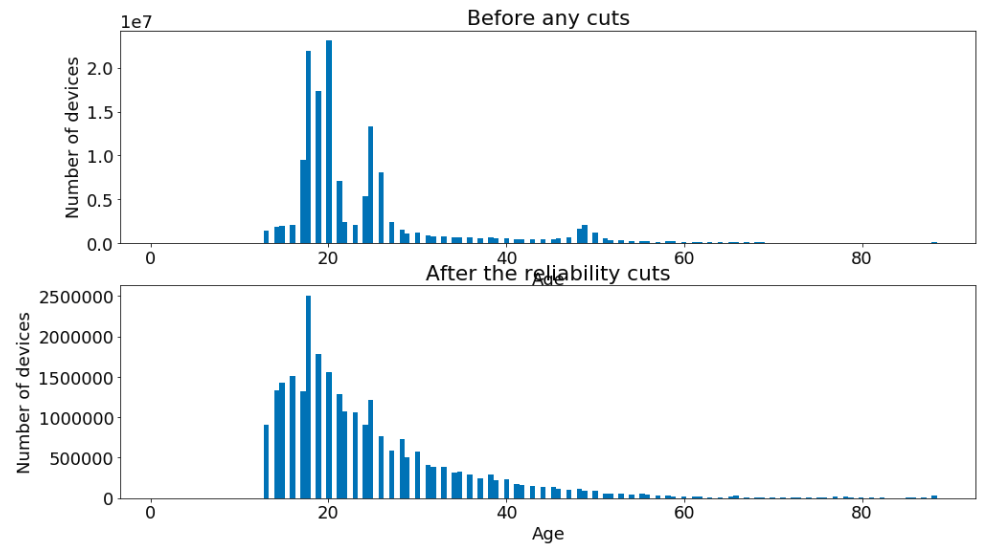
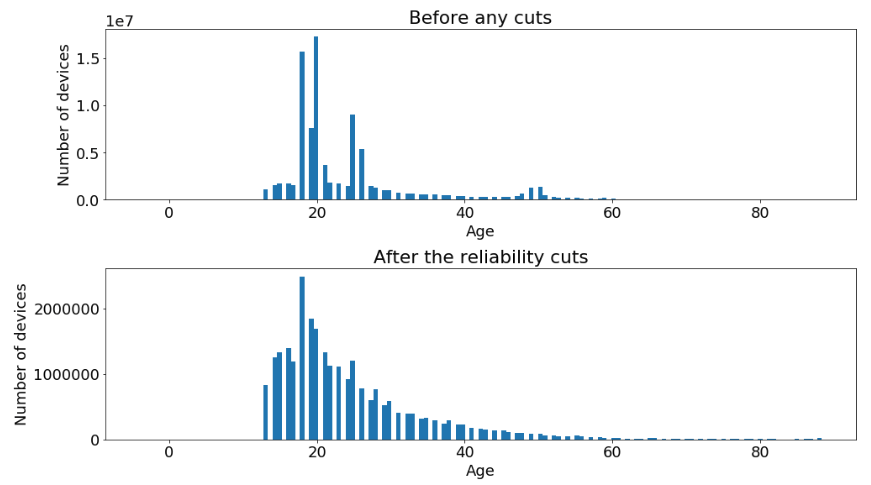
first round comments AgeTargetint1

Changed region(s): [[0.062, 0.0, 0.992, 0.9897], [0.0, 0.5567, 0.124, 0.866], [0.031, 0.5258, 0.124, 0.5567]]

diff --git a/_posts/2020-01-30-Age-Targeting-Part1.md b/_posts/2020-01-30-Age-Targeting-Part1.md
@@ -11,8 +11,12 @@ header-img: "images/Age-Targeting/true_age.jpg"
 
 In mobile advertising it is possible to target specific audiences based on some characteristics of the users.
 Here we are focusing on the age.
-However, these informations are only provided on by a subset of apps during the bidding process.
-To increase the available targeting audience we would need an estimation of the age for the devices which never use those apps and here is when the machine learning comes into place.
+Some apps provide the year of birth of their users.
+We actually do not know, where those apps derive the age from.
+But often, they require a registration step where you would provide your year of birth.
+However, these informations are only given on by a subset of apps during the bidding process.
+To increase the available targeting audience we use the information we get on the small subset of devices to infer the age of other, unknown users.
+To achieve this, machine learning comes into place.
 
 To train a supervised machine learning for infearing the age over all the devices we need: 
 - a **reliable ground truth** datasets (in our case the age for certain devices);
@@ -32,53 +36,105 @@ We want to discover all of those patterns and exclude them from our dataset.
 
 We can structure the age information unreliability in two ways:
 1. consistency of a deviced as observed multiple times on the same app;
-2. consistency of a device as observed in differnt apps.
+2. consistency of a device as observed in different apps.
 
-**1) inter app reliability**:<br/>
-In the plot below you can find some **examples of the age distribution** for four apps.
+**1) Inter app reliability**:<br/>
+In the plot below you can find some **examples of the age distribution** for six apps.
 ![example_age_distribution](../images/Age-Targeting/example_age_distribution.png)
-Different apps clearly show different age distributions..
+Different apps clearly show different age distributions.
 However, it is clear that some of the distributions in the plot do not make sense.
 Why would people from 17-18 correspond to more than 95% of the total users of the app? (What happens to the 16ties? or 19ties?)
 Why would apps have the same numbers of devices for every age in a specific range?
 These must be very special apps, or the data do not correspond to truth.
 What we want to do is to exclude these apps.
-Since we want to make a clear statement about the age distribution of the devices which visit a certain app, we exclude those where the amount of users is not enough to draw any statistical conclusion.
+A rejection/accept statement is drown only when we have enough users observed in the app.
+In case the number of users is too low we do not consider them in the study and in the final ground truth selection.  
 This is not a big issue since the devices contained in these apps are few by definition, so we do not cut off too many data in this way.
 
-Let's describe the main pattern we discover in the data and how we get rid of them.
+Let's describe the main pattern we discover in the data and how we get rid of them creating ad hoc variable via pyspark functions (spark allows to scale and run over the entire dataset).
+
 
 * **Few ages**<br/>
-Certain apps seem to provide almost always only two/three values.
+Certain apps provide almost always only two/three values.
 We create a variable (frac12) which is the fraction of devices contained in the two top most frequent ages observed in the app.
 Apps where the frac12 value is higher than 30% are excluded.
 Below you can see the distribution of the frac12 variable and the consequences of the rejection of the non reliable apps on the total age distribution.
 ![frac12_cut](../images/Age-Targeting/frac12_cut.png)
 The red vertical line indicates the threshold we apply over the frac12 feature.
+Here the code we use to calculate the frac12 over all apps:
 
+```python
+from pyspark.sql import Window
+from pyspark.sql import functions as F
+
+def get_site_with_frac_top_two_bin_information(df_app_dev_age):
+    """Return the apps with the frac12 column which indicate the ammount of deviceid 
+    observed in the two top age."""
+    df_app_age = df_app_dev_age.groupby(["apps", "age"]).agg(
+        F.count("deviceid").alias("num_dev_per_age"))
+    
+    window_num_dev = Window.partitionBy(df_app_age['apps'])
+    df_app_age = df_app_age.withColumn(
+        "num_dev", F.sum("num_dev_per_age").over(window_num_dev))
+    df_app_age = df_app_age.withColumn(
+        "frac_num_age", df_app_age.num_dev_per_age / df_app_age.num_dev)
+    
+    window_frac = Window.partitionBy(df_app_age['apps']).orderBy(
+        df_app_age['frac_num_age'].desc(), "rand")
+    df_app_age = df_app_age.withColumn("rank_frac", F.rank().over(window_frac))
+    df_app_frac12 = df_app_age.filter(df_app_age.rank_frac < 3).groupby("apps").agg(
+        F.sum("frac_num_age").alias("frac12"))
+    return df_app_frac12
+```
 
 * **Uniform distribution**<br/>
-One of the four examples (the bottom left one) clearly show a uniform generated distribution.
-Detect those apps is relatively easy, since for a fixed device a different age will be provided every time the device accesses the app.
-For every devices which have been observed at least twice in the app, we calcualte the max - min age value and, then, we calculate the average of this differences.
+We found out apps where for a fixed device a different age is provided every time the device accesses the app.
+For every devices which have been observed at least twice in the app, we calculate the max - min age value and, then, we calculate the average of this differences.
 In the image you can see the distribution of the avg_range_age variable and the effect of the cut on the global distributions.
+We see that apps like the central right one in the six example, which shows an uniform distribution are rejected.
 ![frac12_cut](../images/Age-Targeting/uniform_cut.png)
+Here the details to calculate the avg_range_age feature.
 
+```python
+from pyspark.sql import functions as F
+
+def get_avg_range_age(df_app_dev_age):
+    """Calculate the average of the range_age for every apps"""
+    df_app_dev = df_app_dev_age.groupby(["apps", "deviceid"]).agg(
+        (F.max(F.col("age")) - F.min(F.col("age"))).alias("range_age"),
+        F.count(F.lit(1)).alias('num_dev_observation')
+    )
+    df_app = df_app_dev[df_app_dev['num_dev_observation'] >= 2].groupby("apps").agg(
+        F.avg(F.col("range_age")).alias("avg_range_age")
+    )
+    return df_app
+```
 
 * **Symmetric like shapes**<br/>
-Certain distributions show a shape which seems to be suspicious symmetric.
+Certain distributions show a shape which is suspiciously symmetric.
 Using the [skewness](https://en.wikipedia.org/wiki/Skewness) statistical measure we can select those and drop them out.
 In the plot below you can see the distribution of the skewness and the effect of the cut on the global distributions.
 ![frac12_cut](../images/Age-Targeting/skewness_cut.png)
+The module pyspark.sql.functions provide a function to directly calculate the skewness.
 
+```python
+from pyspark.sql import functions as F
+
+df = df.groupby("apps").agg(F.skewness(df.age).alias("skewness_age"))
+```
 
 * **Too many peaks**<br/>
-Using a basic peak detecting algorithm, written in pyspark and reported below, we can count the number of peaks on the age distribution.
+Using a basic peak detecting algorithm, written in pyspark and reported below the image, we can count the number of peaks on the age distribution.
+Cutting at 1.5 on the plot we drop distributions with more than one peak detected and we can observe that the rejected apps do not have a clear age-interest trend.
+![num_peaks](../images/Age-Targeting/num_peaks.png)
+
 ```python
 from pyspark.sql import functions as F
 from pyspark.sql.types import IntegerType
 from pyspark.sql import Window
+
 def get_apps_with_peak_information(df):
+    """ Return sites with the number of peaks observed in its age distribution. """
     window_frac = Window.partitionBy(df['apps']).orderBy(df['age'].asc())
     df = df.withColumn("lag_1", F.lag("num_dev_per_age", 1).over(window_frac))
     df = df.withColumn("lag_2", F.lag("num_dev_per_age", 2).over(window_frac))
@@ -91,7 +147,6 @@ def get_apps_with_peak_information(df):
         ((df.num_dev_per_age > df.lag_1) &
          (df.lag_1 > df.lag_2) &
          (df.lag_2 > df.lag_3) &
-
          (df.num_dev_per_age > df.lead_1) &
          (df.lead_1 > df.lead_2) &
          (df.lead_2 > df.lead_3)
@@ -102,28 +157,29 @@ def get_apps_with_peak_information(df):
     df = df.withColumn("is_a_peak", df.frac_for_peak * df.is_higher_than_nei)
     return df.groupby("apps").agg(F.sum("is_a_peak").alias("num_peaks"))
 ```
-Cutting at 1.5 on the plot we drop distributions with more than one peak detected and we can observe that the rejected apps do not have a clear age-interest trend.
-![num_peaks](../images/Age-Targeting/num_peaks.png)
-
 
 It surprises us to see that the ammount of apps with an unrealistic distribution is so high.
-However, since the model benefits from the chirurgical operation and we sill have plenty of devices to train on, we do not esitate on rejecting those apps.
+However, since the model benefits from the chirurgical operation and we still have plenty of devices to train on, we do not hesitate to rejecting those apps.
 
 
-**2) intra apps reliability**<br/>
-The next step is to exclude the app which are not consistent with the other apps.
-In the table below you can see that it is no garantee that for different apps the same age information is provided.
-<p align="center"> <img src="../images/Age-Targeting/table_apps_which_do_not_agree.png"> </p>
-Throught a statitical algorithm that we implemented, the inconsistent apps are rejected.
-There are very few apps excluded by this process, thanks to the already very accurate selection operated in the inter app reliability step.
-We conclude this post showing the age distribution before and after the entire selection.
+**2) Intra apps reliability**<br/>
+The next step is to exclude the apps which are not consistent with the other apps.
+This happen when the same device is observed with different age over different apps.
+
+To detect them we translate the age into the 5 classes which we will use in the business case: 13_17, 18_24, 25_34, 35_54, 55+.
+The number of devices observed with in more than once classes over the entire dataset is calculated for each app.
+In this way a fraction of inconsistent devices in the app can be calculated, taking into account only the devices which are observed in more than one apps.
+The apps with an high fraction are removed together with the remained devices with a non unique age class.
+There are very few apps and devices excluded by this process, thanks to the already very accurate selection operated in the inter app reliability step.
+
+We conclude this section showing the age distribution before and after the entire selection.
 ![age_distribution_before_after](../images/Age-Targeting/age_distribution_before_after.png)
 
 
 **Production**<br/>
-All these rules are put into production via a oozie pipeline which calls a spark job that implements all the described selections.
+All these rules are put into production via an oozie pipeline which calls a spark job that implements all the described selections.
 The final output are two tables, one which contains the deviceID and the age of the user and another one with the apps and a flag which states the reliability status (used for monitoring purpose).
-Every day, as new data come in, the oozie pipeline preocesses the data combined the last two weeks and updates the two tables. 
+Every day, as new data come in, the oozie pipeline processes the data combined the last two weeks and updates the two tables. 
 
 Now that we have a consistent ground truth we can build up a supervised machine learning model which can be used to estimate the age on devices where we do not have any reliable age information.
 This post is already too long, so we will continue the discussion on the next one, stay tuned.

diff --git a/_posts/2020-02-06-Age-Targeting-Part2.md b/_posts/2020-02-06-Age-Targeting-Part2.md
@@ -23,6 +23,7 @@ To make the target usable to the spark ML library we need to map the age_group s
 
 ```python
 from pyspark.ml.feature import StringIndexer
+
 label_stringidx = StringIndexer(inputCol=target_col, outputCol=label_col)
 df = label_stringidx.fit(df).transform(df)
 ```
@@ -67,8 +68,10 @@ To capture weakly effects we also calculate the same feature on a per day of the
 The apps used over the last month.
 This feature is is directly related with the task for which a person use its smart device and, as we will see in later in the post, it produces the most important features.
 We create a bag of apps while keeping into consideration the frequency of use.
+
 ```python
 from pyspark.ml.feature import CountVectorizer, Normalizer
+
 apps_count_vectorizer = CountVectorizer(inputCol=feature_col, 
                                           outputCol=count_vectorizer_col, 
                                           minDF=min_df)
@@ -82,8 +85,10 @@ Apps visited by few devices increase the possibility to overfit, we can cut off 
 Both make and model can be expressed as categorical features and treated via [One Hot Encoding](https://en.wikipedia.org/wiki/One-hot).
 Due to the high cardinality of the models we regroup the low frequency within a single index to avoid statistical fluctuations.
 We know that certain models can be more appealing for younger people while others could have different functionalities more appreciated in the adult phase (e.g. a big screen of a pad).
+
 ```python
 from pyspark.ml.feature import OneHotEncoderEstimator
+
 make_model_ohe = OneHotEncoderEstimator(inputCols=[make_col, model_col], 
                                            outputCols=[make_col_out, model_col_out])
 ```
@@ -96,23 +101,26 @@ It is a proxy for many different quantities such as economy wealthy, age distrib
 Number of distinct apps used by the device.
 People which tends to adapts to new technologies faster (often the youger) could use a larger numbers of apps for their daily needs.
 StandardScale is applied to rescale the data into a range closer to the unity, so that these values can be well accepted even by Neural Networks models.
+
 ```python
 from pyspark.ml.feature import StandardScaler
+
 num_apps_standard_scaler = StandardScaler(inputCol=number_of_apps_col, 
                                             outputCol=number_of_apps_output_col, 
                                             withMean=True, 
                                             withStd=True)
 ```
 
+**Putting all together**<br/>
 All these features are then aggregated into a single vector column to satisfy the spark structure.
 The overall preprocess can be explicited as a single pipeline.
 
 ```python
 from pyspark.ml.feature import VectorAssembler
+from pyspark.ml import Pipeline
+
 va = VectorAssembler(inputCols=list_with_all_the_features_column_name, 
                      outputCol=outputcolname)
-
-from pyspark.ml import Pipeline
 preprocessing_pipeline = Pipeline(stages=[apps_count_vectorizer, 
                                           apps_normalizer, 
                                           make_model_ohe, 
